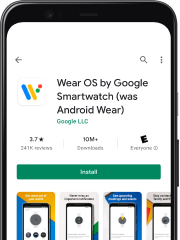
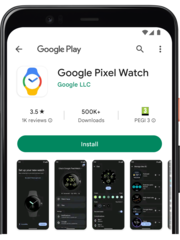
Add support for Pixel Watch companion app in pairing assistant
Fixes: 272502569
Test: included

diff --git a/wear-pairing/src/com/android/tools/idea/wearpairing/DevicesConnectionStep.kt b/wear-pairing/src/com/android/tools/idea/wearpairing/DevicesConnectionStep.kt
@@ -86,10 +86,10 @@ import javax.swing.JProgressBar
 import javax.swing.SwingConstants
 import javax.swing.event.HyperlinkListener
 
-private const val WEAR_MAIN_ACTIVITY = "com.google.android.clockwork.companion.launcher.LauncherActivity"
 private const val TIME_TO_SHOW_MANUAL_RETRY = 60_000L
 private const val TIME_TO_INSTALL_COMPANION_APP = 120_000L
 private const val PATH_PLAY_SCREEN = "/screens/playStore.png"
+private const val PATH_PLAY_SCREEN_LEGACY = "/screens/playStoreLegacy.png"
 private const val PATH_PAIR_SCREEN = "/screens/wearPair.png"
 
 private val LOG get() = logger<WearPairingManager>()
@@ -211,8 +211,7 @@ class DevicesConnectionStep(model: WearDevicePairingModel,
       // Companion App already installed, go to the next step
       goToNextStep()
     }
-    else if (companionAppId == OEM_COMPANION_FALLBACK_APP_ID) {
-      // Wear 2.x companion app
+    else if (companionAppId == PIXEL_COMPANION_APP_ID || companionAppId == OEM_COMPANION_FALLBACK_APP_ID) {
       showUiInstallCompanionAppInstructions(phoneDevice, wearDevice)
     }
     else {
@@ -261,14 +260,14 @@ class DevicesConnectionStep(model: WearDevicePairingModel,
   private suspend fun showWaitForCompanionAppInstall(phoneDevice: IDevice, wearDevice: IDevice, launchPlayStore: Boolean) {
     if (launchPlayStore) {
       showUiInstallCompanionAppScanning(phoneDevice, wearDevice,
-                                        scanningLabel = message("wear.assistant.device.connection.scanning.wear.os.btn"))
+                                        scanningLabelKey = "wear.assistant.device.connection.scanning.wear.os.btn")
       phoneDevice.executeShellCommand(
         "am start -a android.intent.action.VIEW -d 'market://details?id=${wearDevice.getCompanionAppIdForWatch()}'")
       showEmbeddedEmulator(phoneDevice)
     }
     else {
       showUiInstallCompanionAppScanning(phoneDevice, wearDevice,
-                                        scanningLabel = message("wear.assistant.device.connection.scanning.wear.os.lnk"))
+                                        scanningLabelKey = "wear.assistant.device.connection.scanning.wear.os.lnk")
     }
 
     if (waitForCondition(TIME_TO_INSTALL_COMPANION_APP) { phoneDevice.isCompanionAppInstalled(wearDevice.getCompanionAppIdForWatch()) }) {
@@ -326,7 +325,8 @@ class DevicesConnectionStep(model: WearDevicePairingModel,
     if (launchCompanionApp) {
       showUiPairingScanning(phoneWearPair, phoneDevice, wearDevice,
                             scanningLabel = message("wear.assistant.device.connection.wait.pairing.btn"))
-      phoneDevice.executeShellCommand("am start -n ${wearDevice.getCompanionAppIdForWatch()}/$WEAR_MAIN_ACTIVITY")
+      // Use monkey here as it avoids having to specify an activity for each companion app
+      phoneDevice.executeShellCommand("monkey -p ${wearDevice.getCompanionAppIdForWatch()} -c android.intent.category.LAUNCHER 1")
       showEmbeddedEmulator(phoneDevice)
     }
     else {
@@ -560,10 +560,10 @@ class DevicesConnectionStep(model: WearDevicePairingModel,
 
   private suspend fun showUiInstallCompanionAppScanning(phoneDevice: IDevice,
                                                         wearDevice: IDevice,
-                                                        scanningLabel: String) = showUiInstallCompanionApp(
+                                                        scanningLabelKey: String) = showUiInstallCompanionApp(
     phoneDevice = phoneDevice,
     showLoadingIcon = true,
-    scanningLabel = scanningLabel,
+    scanningLabelKey = scanningLabelKey,
     wearDevice = wearDevice
   )
 
@@ -571,13 +571,13 @@ class DevicesConnectionStep(model: WearDevicePairingModel,
     phoneDevice = phoneDevice,
     wearDevice = wearDevice,
     showSuccessIcon = true,
-    scanningLabel = message("wear.assistant.device.connection.wear.os.installed"),
+    scanningLabelKey = "wear.assistant.device.connection.wear.os.installed",
   )
 
   private suspend fun showUiInstallCompanionAppRetry(phoneDevice: IDevice, wearDevice: IDevice) = showUiInstallCompanionApp(
     phoneDevice = phoneDevice,
     wearDevice = wearDevice,
-    scanningLabel = message("wear.assistant.device.connection.wear.os.missing"),
+    scanningLabelKey = "wear.assistant.device.connection.wear.os.missing",
     scanningLink = message("wear.assistant.device.connection.check.again"),
     scanningListener = {
       check(runningJob?.isActive != true) // This is a manual retry. No job should be running at this point.
@@ -589,30 +589,37 @@ class DevicesConnectionStep(model: WearDevicePairingModel,
 
   private suspend fun showUiInstallCompanionApp(
     phoneDevice: IDevice, showLoadingIcon: Boolean = false, showSuccessIcon: Boolean = false,
-    scanningLabel: String = "", scanningLink: String = "", scanningListener: HyperlinkListener? = null, wearDevice: IDevice
-  ) = showUI(
-    header = message("wear.assistant.device.connection.install.wear.os.title"),
-    description = message("wear.assistant.device.connection.install.wear.os.subtitle", WEAR_DOCS_LINK),
+    scanningLabelKey: String = "", scanningLink: String = "", scanningListener: HyperlinkListener? = null, wearDevice: IDevice
+  ) {
+    // scanningLabelKey resource must contain exactly one parameter for companion app name
+    val companionAppName = if (wearDevice.getCompanionAppIdForWatch() == PIXEL_COMPANION_APP_ID) message(
+      "wear.assistant.companion.app.name")
+    else message("wear.assistant.companion.app.name.legacy")
+    val scanningLabel = if (scanningLabelKey.isNotEmpty()) message(scanningLabelKey, companionAppName) else ""
+    showUI(
+      header = message("wear.assistant.device.connection.install.wear.os.title"),
+      description = message("wear.assistant.device.connection.install.wear.os.subtitle", companionAppName, WEAR_DOCS_LINK),
 
-    body = createScanningPanel(
-      firstStepLabel = message("wear.assistant.device.connection.install.wear.os.firstStep"),
-      buttonLabel = message("wear.assistant.device.connection.install.wear.os.button"),
-      buttonListener = {
-        runningJob?.cancel()
-        runningJob = coroutineScope.launch(Dispatchers.IO) {
-          showWaitForCompanionAppInstall(phoneDevice, wearDevice, launchPlayStore = true)
-        }
-      },
-      showLoadingIcon = showLoadingIcon,
-      showSuccessIcon = showSuccessIcon,
-      scanningLabel = scanningLabel,
-      scanningLink = scanningLink,
-      scanningListener = scanningListener,
-      additionalStepsLabel = message("wear.assistant.device.connection.install.wear.os.additionalSteps"),
-    ),
+      body = createScanningPanel(
+        firstStepLabel = message("wear.assistant.device.connection.install.wear.os.firstStep", companionAppName),
+        buttonLabel = message("wear.assistant.device.connection.install.wear.os.button", companionAppName),
+        buttonListener = {
+          runningJob?.cancel()
+          runningJob = coroutineScope.launch(Dispatchers.IO) {
+            showWaitForCompanionAppInstall(phoneDevice, wearDevice, launchPlayStore = true)
+          }
+        },
+        showLoadingIcon = showLoadingIcon,
+        showSuccessIcon = showSuccessIcon,
+        scanningLabel = scanningLabel,
+        scanningLink = scanningLink,
+        scanningListener = scanningListener,
+        additionalStepsLabel = message("wear.assistant.device.connection.install.wear.os.additionalSteps", companionAppName),
+      ),
 
-    imagePath = PATH_PLAY_SCREEN,
-  )
+      imagePath = if (wearDevice.getCompanionAppIdForWatch() == PIXEL_COMPANION_APP_ID) PATH_PLAY_SCREEN else PATH_PLAY_SCREEN_LEGACY,
+    )
+  }
 
   private suspend fun showUiPairing(
     phoneWearPair: PhoneWearPair, phoneDevice: IDevice, wearDevice: IDevice, showLoadingIcon: Boolean = false,

diff --git a/wear-pairing/testSrc/com/android/tools/idea/wearpairing/DevicesConnectionStepTest.kt b/wear-pairing/testSrc/com/android/tools/idea/wearpairing/DevicesConnectionStepTest.kt
@@ -17,6 +17,7 @@ package com.android.tools.idea.wearpairing
 
 import com.android.ddmlib.IDevice
 import com.android.ddmlib.IShellOutputReceiver
+import com.android.testutils.MockitoKt
 import com.android.testutils.MockitoKt.whenever
 import com.android.testutils.VirtualTimeScheduler
 import com.android.tools.adtui.swing.FakeUi
@@ -37,7 +38,6 @@ import com.intellij.openapi.util.Disposer
 import com.intellij.testFramework.LightPlatform4TestCase
 import com.intellij.ui.components.JBLabel
 import com.intellij.ui.components.labels.LinkLabel
-import org.junit.Rule
 import org.junit.Test
 import org.mockito.Mockito
 import java.awt.Dimension
@@ -109,9 +109,7 @@ class DevicesConnectionStepTest : LightPlatform4TestCase() {
     assertThat(model.removePairingOnCancel.get()).isTrue()
   }
 
-  @Test
-  fun stepShouldAskToInstallWearOSCompanionApp() {
-    val iDevice = createTestDevice(companionAppVersion = "") // Simulate no Companion App
+  private fun shouldPromptToInstallCompanionApp(iDevice: IDevice) {
     phoneDevice.launch = { Futures.immediateFuture(iDevice) }
     wearDevice.launch = phoneDevice.launch
 
@@ -123,8 +121,20 @@ class DevicesConnectionStepTest : LightPlatform4TestCase() {
   }
 
   @Test
-  fun shouldWarnAboutWear3CompanionApp_ifNotInstalled() {
-    val iDevice = createTestDevice(companionAppVersion = "", Int.MAX_VALUE, "some.unknown.companion.app")
+  fun shouldPromptToInstallPixelCompanionApp_ifPixelCompanionAppIdSet() {
+    val iDevice = createTestDevice(companionAppId = "com.google.android.apps.wear.companion")
+    shouldPromptToInstallCompanionApp(iDevice)
+  }
+
+  @Test
+  fun shouldPromptToInstallLegacyCompanionApp_ifCompanionAppIdNotSpecified() {
+    val iDevice = createTestDevice(companionAppId = null)
+    shouldPromptToInstallCompanionApp(iDevice)
+  }
+
+  @Test
+  fun shouldWarnAboutUnknownCompanionApp() {
+    val iDevice = createTestDevice(companionAppId = "some.unknown.companion.app")
     phoneDevice.launch = { Futures.immediateFuture(iDevice) }
     wearDevice.launch = phoneDevice.launch
 
@@ -302,7 +312,7 @@ class DevicesConnectionStepTest : LightPlatform4TestCase() {
   private fun getWearPairingTrackingEvents(): List<LoggedUsage> =
     usageTracker.usages.filter { it.studioEvent.kind == AndroidStudioEvent.EventKind.WEAR_PAIRING}
 
-  private fun createTestDevice(companionAppVersion: String,
+  private fun createTestDevice(companionAppVersion: String = "",
                                gmscoreVersion: Int = Int.MAX_VALUE,
                                companionAppId: String? = null,
                                additionalReplies: (request: String) -> String? = { null }): IDevice {

diff --git a/android/testSrc/com/android/tools/idea/run/configuration/execution/AndroidComplicationConfigurationExecutorTest.kt b/android/testSrc/com/android/tools/idea/run/configuration/execution/AndroidComplicationConfigurationExecutorTest.kt
@@ -166,7 +166,7 @@ class AndroidComplicationConfigurationExecutorTest : AndroidConfigurationExecuto
     val consoleOutput = consoleOutputPromise.get(10, TimeUnit.SECONDS)
     assertThat(consoleOutput)
       .contains("Warning: The chosen Wear device may kill background services if they take too long to respond, which can " +
-                "affect debugging. To avoid this, please update the Wear OS app on your device to the latest version.")
+                "affect debugging. To avoid this, please update the Wear OS companion app on your device to the latest version.")
   }
 
   @Test

diff --git a/wear-pairing/src/com/android/tools/idea/wearpairing/PairingFeature.kt b/wear-pairing/src/com/android/tools/idea/wearpairing/PairingFeature.kt
@@ -45,6 +45,7 @@ private val VERSION_CODE_PATTERN = "versionCode=(\\d+)".toRegex()
 private const val OEM_COMPANION_SETTING_KEY = "cw.oem_companion_package"
 private const val OEM_COMPANION_PROPERTY_KEY = "ro.oem.companion_package"
 
+const val PIXEL_COMPANION_APP_ID = "com.google.android.apps.wear.companion"
 const val OEM_COMPANION_FALLBACK_APP_ID = "com.google.android.wearable.app"
 
 private suspend fun IDevice.getAppVersionCode(appId: String) =

diff --git a/device-manager/src/com/android/tools/idea/devicemanager/PairedDevicesPanel.java b/device-manager/src/com/android/tools/idea/devicemanager/PairedDevicesPanel.java
@@ -112,7 +112,7 @@ public final class PairedDevicesPanel extends JBPanel<PairedDevicesPanel> implem
     Object phone = pair.getPhone();
 
     String message = "This will disconnect " + wearOs + " from " + phone + ". To completely unpair the two devices, remove " + wearOs +
-                     " from the list of devices in the Wear OS app on " + phone + " and wipe data from " + wearOs + '.';
+                     " from the list of devices in the Wear OS companion app on " + phone + " and wipe data from " + wearOs + '.';
 
     boolean disconnect = MessageDialogBuilder.okCancel("Disconnect " + wearOs + " from " + phone + '?', message)
       .asWarning()
